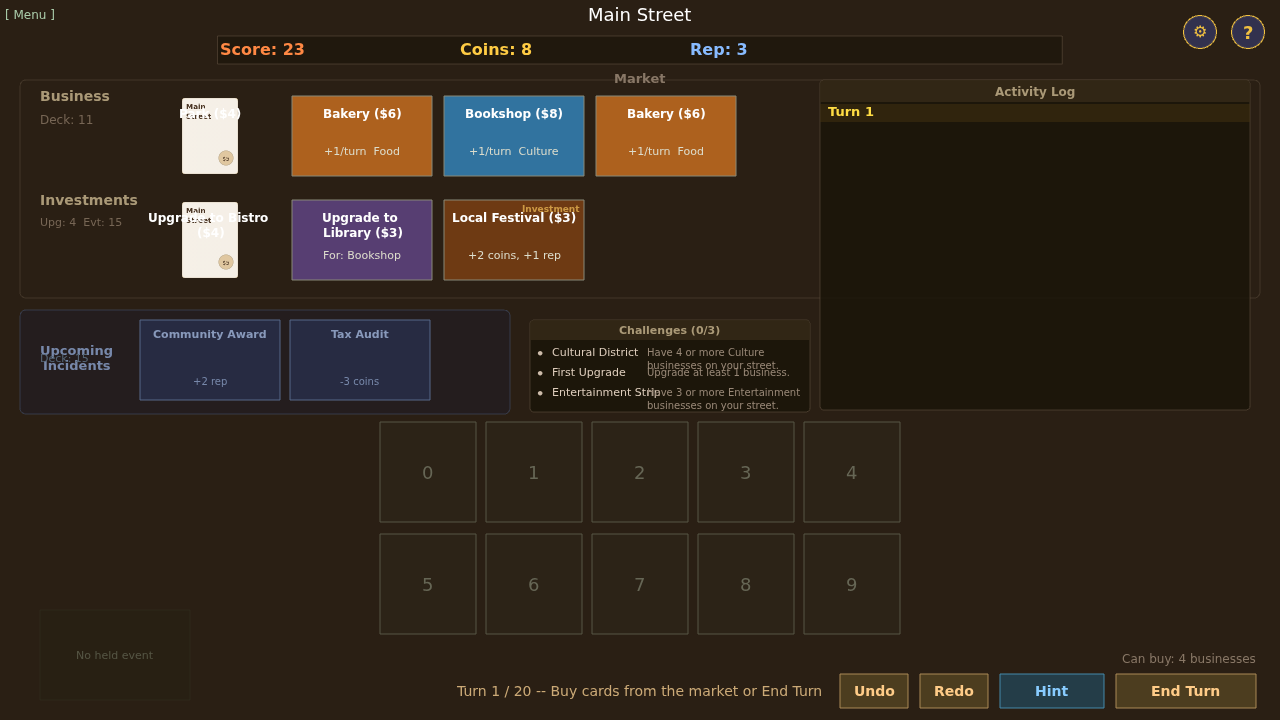
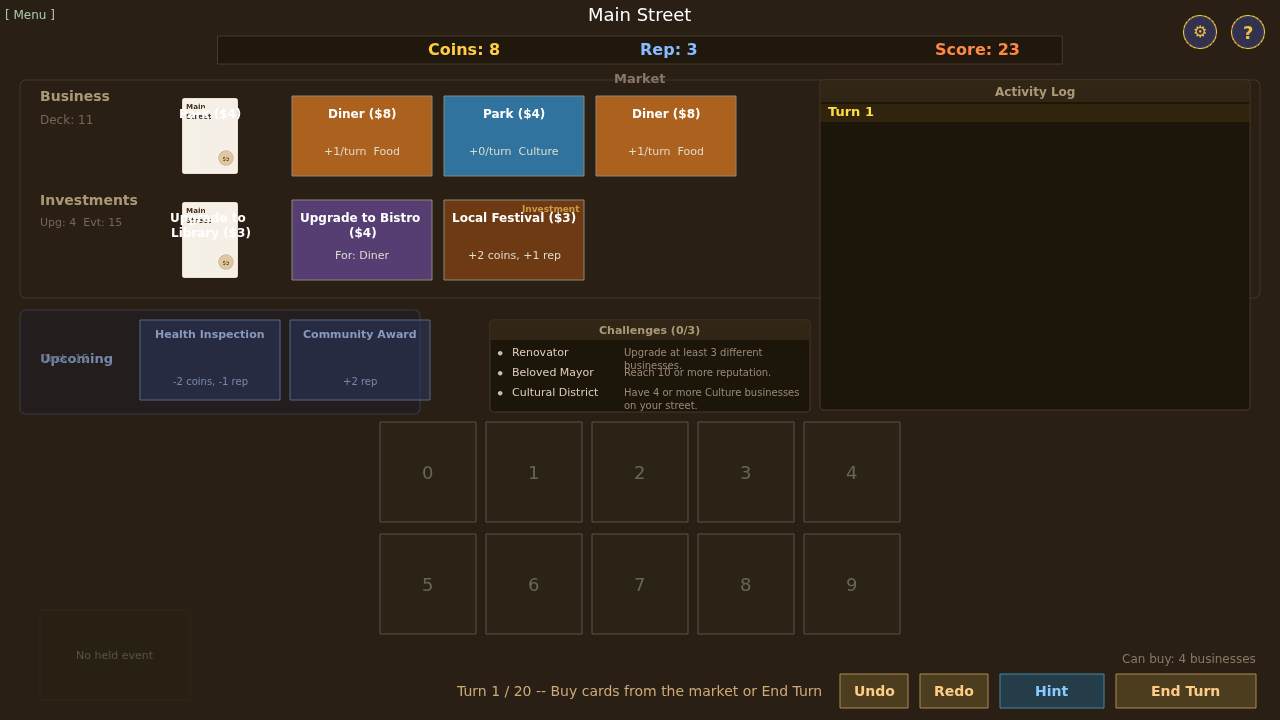
Fix: center header text, shrink incidents, expand challenges, simplify label
- Center Coins, Rep, Score in the header strip
- Shrink incidents box width to just fit cards
- Expand challenges box to fill gap
- Remove 'Incidents' from label, just say 'Upcoming'

diff --git a/src/scenes/MainStreetScene.ts b/src/scenes/MainStreetScene.ts
@@ -410,8 +410,8 @@ export class MainStreetScene extends CardGameScene {
     // Challenge tracker: position between hand and action buttons
     const logW = compact ? 360 : 430;
     const logX = gameW - margin - logW - 10; // left edge just left of right margin
-    // Challenge to the left of the log - calculate width first
-    const challengeW = Math.min(280, logX - handCardW - margin - 20);
+    // Challenge to the left of the log - expand to fill space
+    const challengeW = Math.min(320, logX - handCardW - margin - 20);
     const challengeX = logX - challengeW - 10;
     const challengeY = queueTop;
     const logY = marketTop - 10; // align top with market
@@ -687,19 +687,21 @@ export class MainStreetScene extends CardGameScene {
     this.hudContainer.add(strip);
 
     // Coins - centered in strip
-    const coinText = this.add.text(gameW / 2 - 180, hudY, `Coins: ${coins}`, {
+    const stripWidth = gameW * 0.66;
+    const stripLeft = (gameW - stripWidth) / 2;
+    const coinText = this.add.text(stripLeft + stripWidth * 0.25, hudY, `Coins: ${coins}`, {
       fontSize: '16px', fontStyle: 'bold', color: '#ffcc44', fontFamily: FONT_FAMILY,
     }).setOrigin(0, 0.5);
     this.hudContainer.add(coinText);
 
-    // Reputation
-    const repText = this.add.text(gameW / 2 + 50, hudY, `Rep: ${reputation}`, {
+    // Reputation - centered in strip
+    const repText = this.add.text(stripLeft + stripWidth * 0.5, hudY, `Rep: ${reputation}`, {
       fontSize: '16px', fontStyle: 'bold', color: '#88bbff', fontFamily: FONT_FAMILY,
     }).setOrigin(0, 0.5);
     this.hudContainer.add(repText);
 
-    // Score - move left away from icons
-    const scoreText = this.add.text(220, hudY, `Score: ${score}`, {
+    // Score - right side of strip
+    const scoreText = this.add.text(stripLeft + stripWidth * 0.85, hudY, `Score: ${score}`, {
       fontSize: '16px', fontStyle: 'bold', color: '#ff8844', fontFamily: FONT_FAMILY,
     }).setOrigin(0, 0.5);
     this.hudContainer.add(scoreText);
@@ -1141,7 +1143,8 @@ export class MainStreetScene extends CardGameScene {
     const { queueLabelW, queueCardW, queueCardH, queueCardGap, queueTop } = this.layout;
 
     // Section background
-    const queueW = queueLabelW + INCIDENT_QUEUE_SIZE * (queueCardW + queueCardGap) + 100;
+    // Shrink width to just fit cards
+    const queueW = queueLabelW + INCIDENT_QUEUE_SIZE * (queueCardW + queueCardGap) + 10;
     const queueH = queueCardH + 24;
     const bgBox = this.add.graphics();
     bgBox.fillStyle(0x1a1830, 0.35);
@@ -1151,7 +1154,7 @@ export class MainStreetScene extends CardGameScene {
     this.incidentQueueContainer.add(bgBox);
 
     // Section label
-    const label = this.add.text(40, queueTop + queueCardH / 2 - 2, 'Upcoming\nIncidents', {
+    const label = this.add.text(40, queueTop + queueCardH / 2 - 2, 'Upcoming', {
       fontSize: '13px', fontStyle: 'bold', color: '#7788aa', fontFamily: FONT_FAMILY,
       align: 'center',
     }).setOrigin(0, 0.5);
